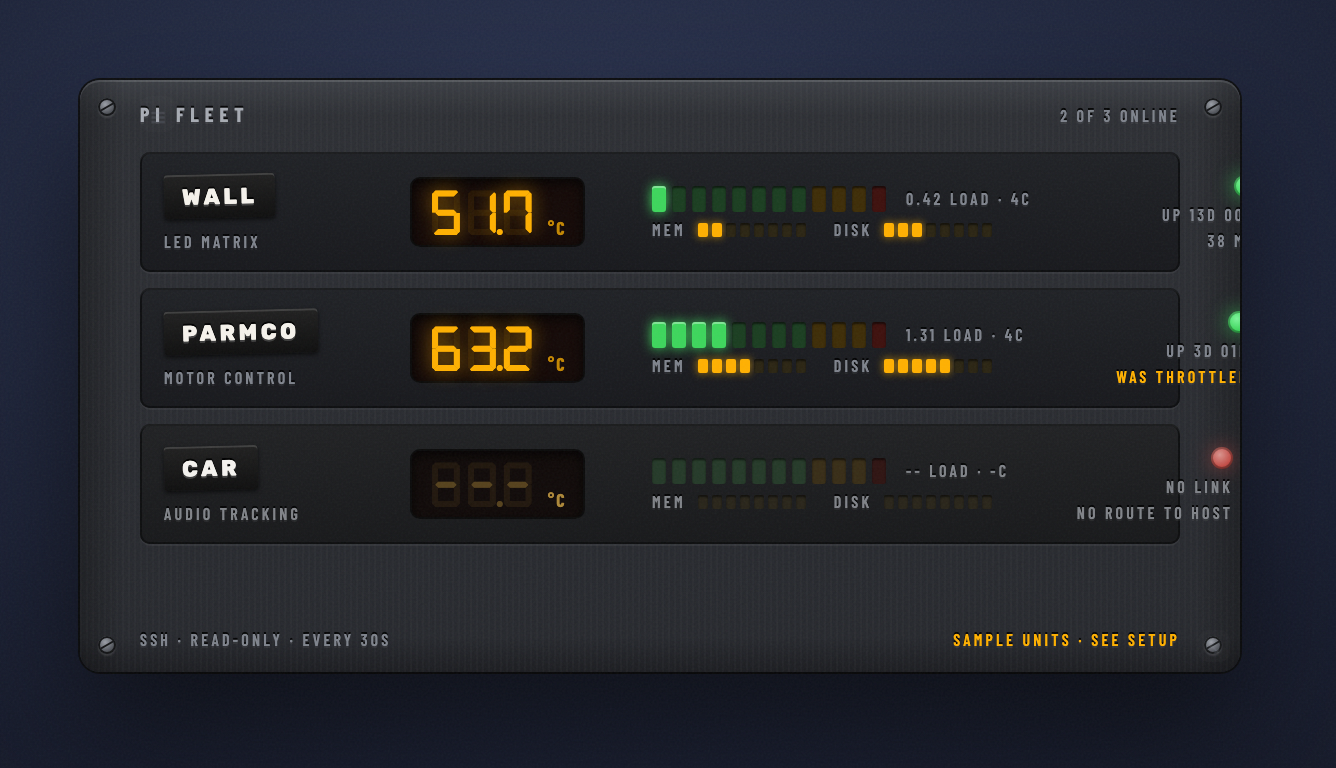
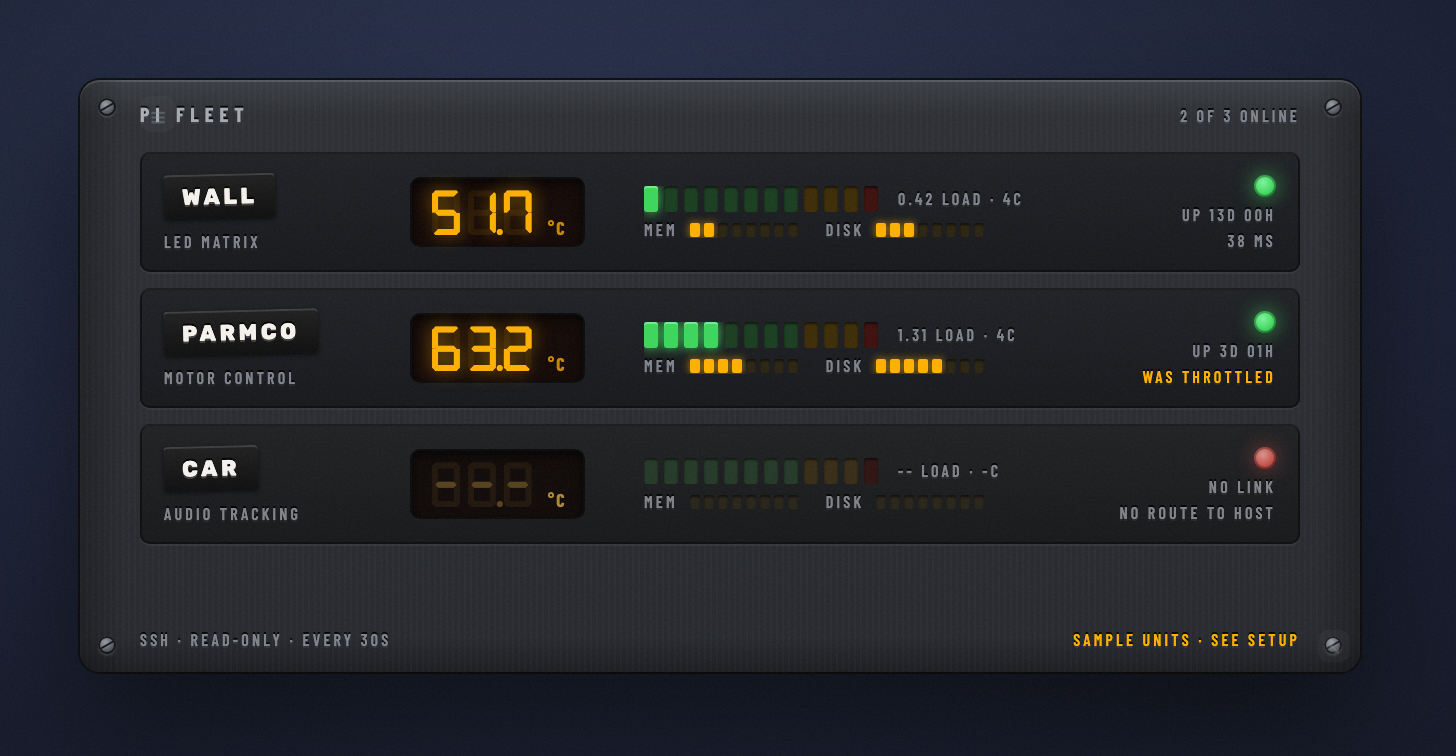
Brighter handles, interactive pet, rack width fix, composed homescreen in README
Move and resize grips are now visible at rest on every widget. The pet can be tapped (it jumps) and dragged (pick it up, drop it) in interaction mode. The rack panel is wider so its status column never clips. READMEs show the composed homescreen instead of the old animation.

diff --git a/pi-fleet.widget/index.jsx b/pi-fleet.widget/index.jsx
@@ -131,7 +131,7 @@ const card = (variant, w, h, x = 0, y = 0) => `
   .ws-drag  { position:absolute; top:6px; left:6px; z-index:30;
               width:18px; height:18px; border-radius:6px;
               display:flex; align-items:center; justify-content:center;
-              font-size:11px; line-height:1; cursor:grab; opacity:0.22;
+              font-size:11px; line-height:1; cursor:grab; opacity:0.42;
               transition:opacity .15s ease; user-select:none;
               -webkit-user-select:none;
               color:${variant === "dark" ? T.onDarkMute : T.inkMute};
@@ -143,7 +143,7 @@ const card = (variant, w, h, x = 0, y = 0) => `
   .ws-resize { position:absolute; bottom:5px; right:5px; z-index:30;
                width:16px; height:16px; border-radius:5px;
                display:flex; align-items:center; justify-content:center;
-               font-size:11px; line-height:1; cursor:nwse-resize; opacity:0.22;
+               font-size:11px; line-height:1; cursor:nwse-resize; opacity:0.42;
                transition:opacity .15s ease; user-select:none;
                -webkit-user-select:none;
                color:${variant === "dark" ? T.onDarkMute : T.inkMute};
@@ -438,7 +438,7 @@ const throttle = (hex) => { const v = parseInt(hex || "0", 16) || 0; return (v &
 
 const SAVED_HOSTS = (((recall(KEY) || {}).data || {}).hosts || []).length;
 const UNITS = Math.max(3, Math.min(6, SAVED_HOSTS || 3));
-const W = 580, UH = 60, H = 92 + UNITS * (UH + 8);
+const W = 640, UH = 60, H = 92 + UNITS * (UH + 8);
 
 export const className = card("dark", W, H, ...POS) + `
   @font-face { font-family: "DSEG7"; src: url("${FONTS}/DSEG7Classic-Bold.woff2") format("woff2"); font-weight: 700; }
@@ -463,7 +463,7 @@ export const className = card("dark", W, H, ...POS) + `
   .units { position:absolute; top: 36px; left: 30px; right: 30px; display:flex; flex-direction:column; gap: 8px; }
   .unit { height: ${UH}px; border-radius: 5px; background: linear-gradient(180deg, #1F2125 0%, #17181C 100%);
           box-shadow: inset 0 1px 0 rgba(255,255,255,0.06), inset 0 0 0 1px #0c0d0f, 0 1px 0 rgba(255,255,255,0.05);
-          display:grid; grid-template-columns: 112px 108px 1fr 100px; align-items:center; gap: 12px; padding: 0 12px; position:relative; }
+          display:grid; grid-template-columns: 112px 104px 196px minmax(0, 1fr); align-items:center; gap: 12px; padding: 0 12px; position:relative; overflow:hidden; }
   .unit.off { filter: saturate(0.6); }
   .dymo { display:inline-block; max-width: 110px; overflow:hidden; text-overflow: ellipsis; white-space:nowrap; background: linear-gradient(180deg, #202020 0%, #0E0E0E 100%); color: #F6F3EC;
           font: 800 11px/1 "Rubik", "Arial Rounded MT Bold", sans-serif; letter-spacing: 1.8px; text-transform:uppercase; padding: 6px 9px 5px; border-radius: 2px;
@@ -474,7 +474,7 @@ export const className = card("dark", W, H, ...POS) + `
   .seg .g { position:absolute; left: 8px; top: 6px; font: 700 22px/1 "DSEG7", monospace; color: rgba(255,176,0,0.08); }
   .seg .u { font: 700 9px/1 var(--cond); color: rgba(255,176,0,0.75); letter-spacing: 1px; margin-left: 4px; }
   .unit.off .seg .v { color: rgba(255,176,0,0.28); text-shadow:none; }
-  .meter { display:flex; flex-direction:column; gap: 5px; }
+  .meter { display:flex; flex-direction:column; gap: 5px; min-width: 0; overflow:hidden; }
   .leds { display:flex; gap: 3px; align-items:flex-end; }
   .leds i { width: 7px; height: 13px; border-radius: 1.5px; background: var(--off); box-shadow: inset 0 1px 1px rgba(0,0,0,0.6); }
   .leds i.on { background: var(--on); box-shadow: 0 0 6px var(--on), inset 0 1px 0 rgba(255,255,255,0.35); }
@@ -483,7 +483,8 @@ export const className = card("dark", W, H, ...POS) + `
   .strip .dots { display:flex; gap: 2px; }
   .strip .dots i { width: 5px; height: 7px; border-radius: 1px; background: #2a2412; box-shadow: inset 0 1px 1px rgba(0,0,0,0.6); }
   .strip .dots i.on { background: var(--amber); box-shadow: 0 0 4px rgba(255,176,0,0.7); }
-  .stat { display:flex; flex-direction:column; align-items:flex-end; gap: 5px; }
+  .stat { display:flex; flex-direction:column; align-items:flex-end; gap: 5px; min-width: 0; }
+  .stat .etch { max-width: 100%; overflow:hidden; text-overflow: ellipsis; }
   .lamp { width: 11px; height: 11px; border-radius:50%; background: radial-gradient(circle at 40% 35%, #7cf59a, var(--green) 60%, #1c7a30 100%); box-shadow: 0 0 10px rgba(61,214,92,0.7), inset 0 0 0 1px rgba(0,0,0,0.3); }
   .lamp.red { background: radial-gradient(circle at 40% 35%, #ff8a80, var(--red) 60%, #8a1f18 100%); box-shadow: 0 0 10px rgba(255,59,48,0.6), inset 0 0 0 1px rgba(0,0,0,0.3); }
   .lamp.amber { background: radial-gradient(circle at 40% 35%, #ffd76a, var(--amber) 60%, #8a5f00 100%); box-shadow: 0 0 10px rgba(255,176,0,0.7); animation: pf-blink 1.2s steps(2, end) infinite; }
